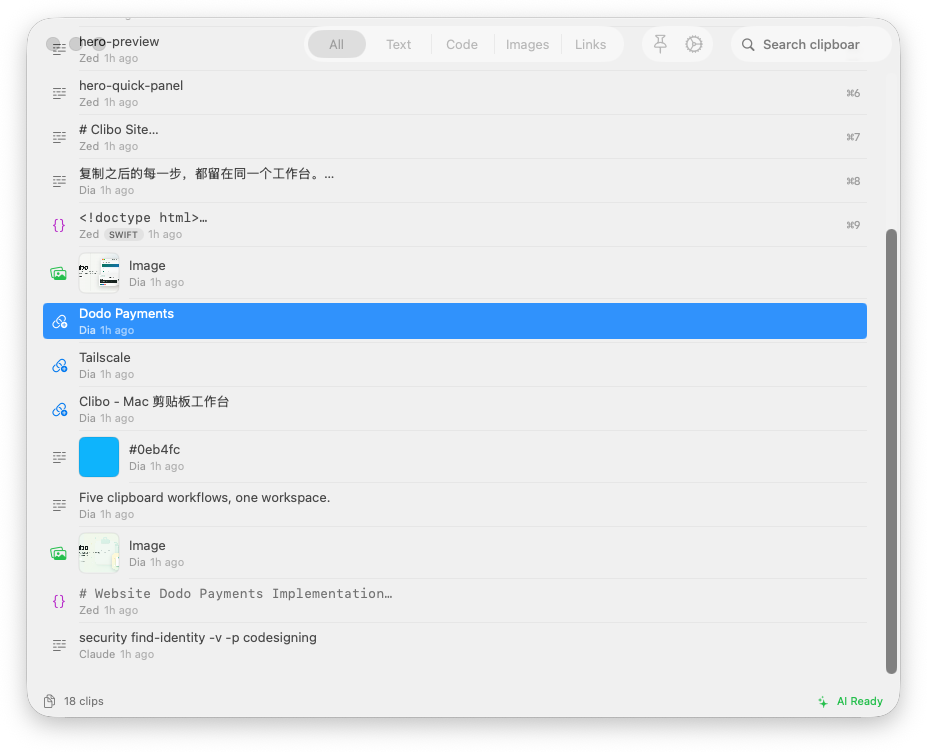
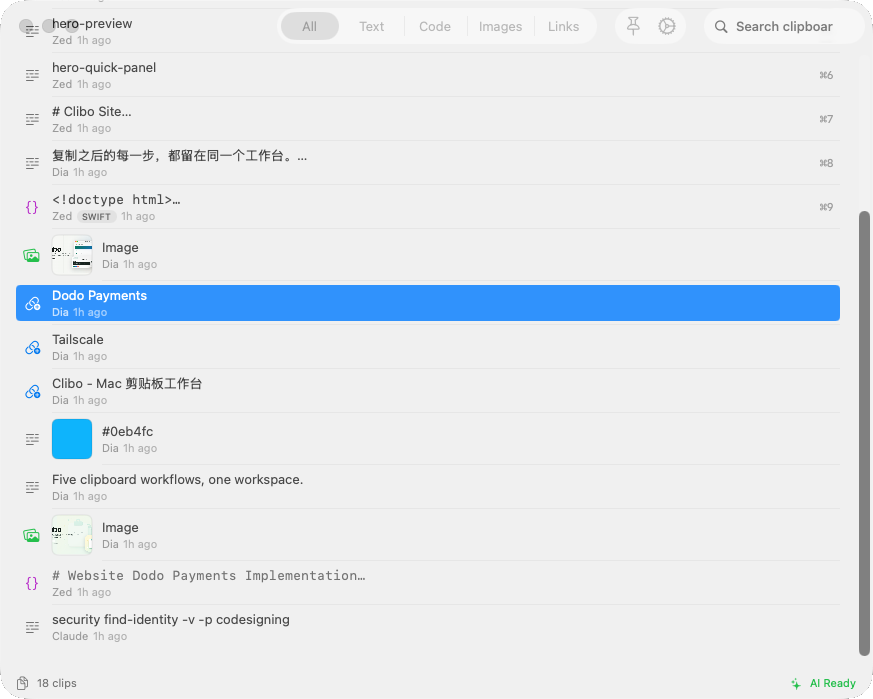
Update Clibo site hero and preview content

diff --git a/success/index.html b/success/index.html
@@ -42,7 +42,7 @@
         <div class="license-list" data-license-list></div>
 
         <div class="success-actions">
-          <a class="primary-action" href="https://xuyi.dev" data-download-link>Download Clibo</a>
+          <a class="primary-action" href="https://downloads.clibo.us/dmgs/1.0.0/Clibo-1.0.0.dmg" data-download-link>Download Clibo</a>
           <a class="secondary-action" href="/">回到首页</a>
         </div>
 

diff --git a/docs/Website_DodoPayments_Implementation.md b/docs/Website_DodoPayments_Implementation.md
@@ -111,10 +111,10 @@ Security behavior:
 The success page currently points `Download Clibo` to:
 
 ```txt
-https://xuyi.dev
+https://downloads.clibo.us/dmgs/1.0.0/Clibo-1.0.0.dmg
 ```
 
-Before paid launch, replace this with the stable notarized release URL.
+This should be updated whenever the public notarized release URL changes.
 
 Recommended final shape:
 